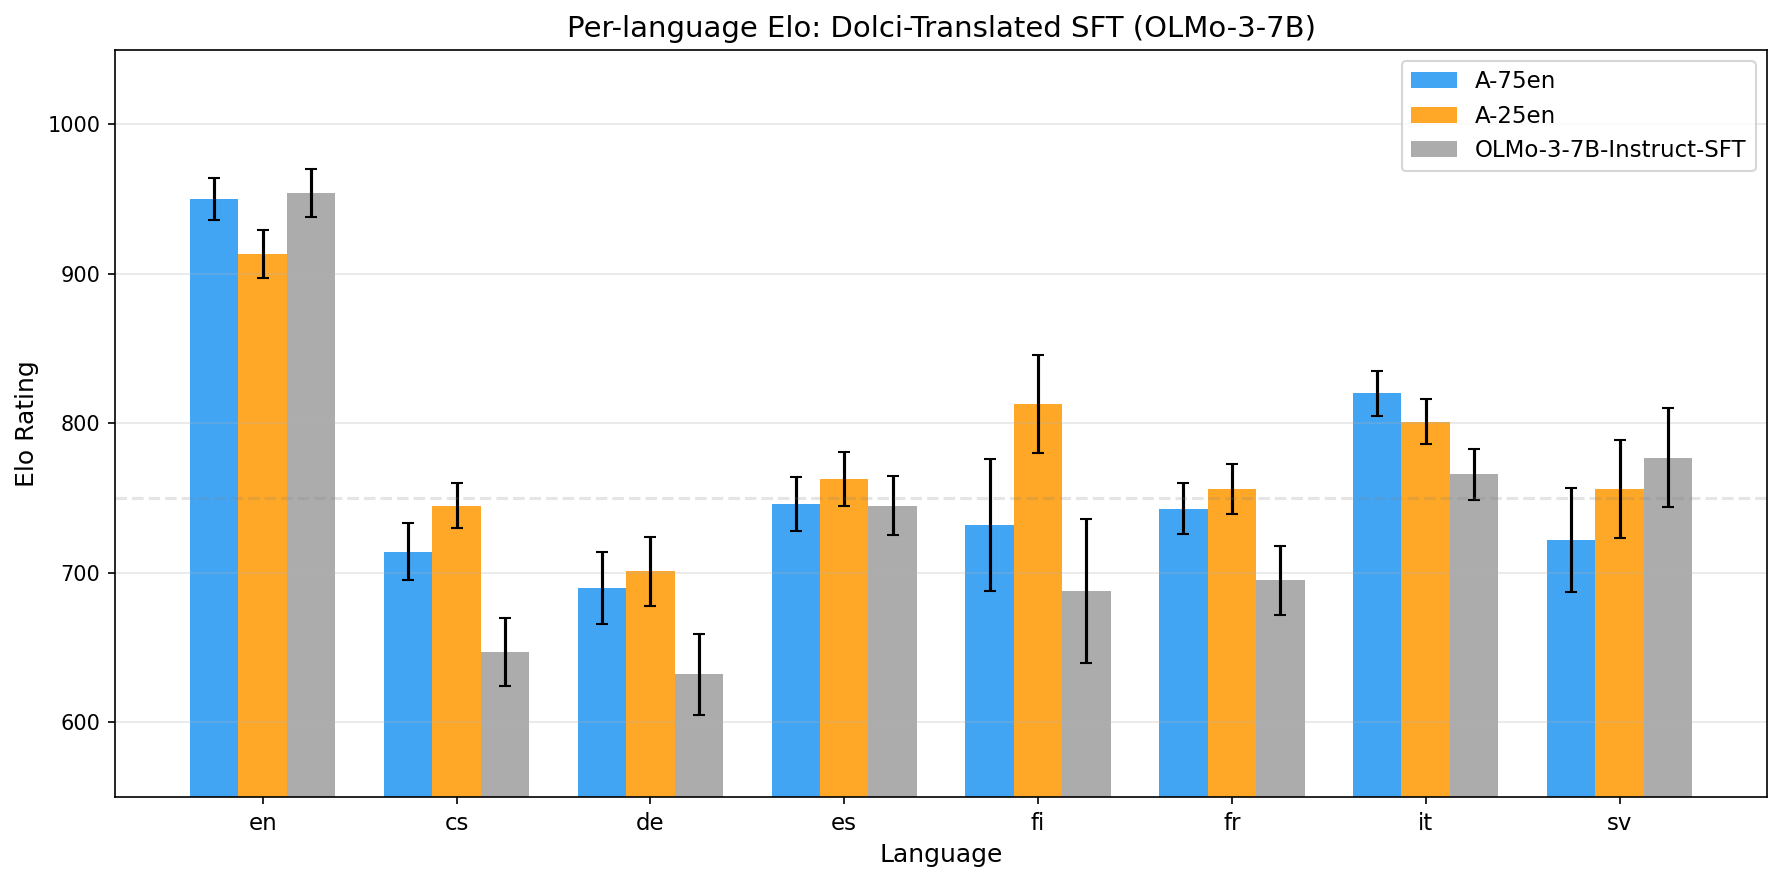
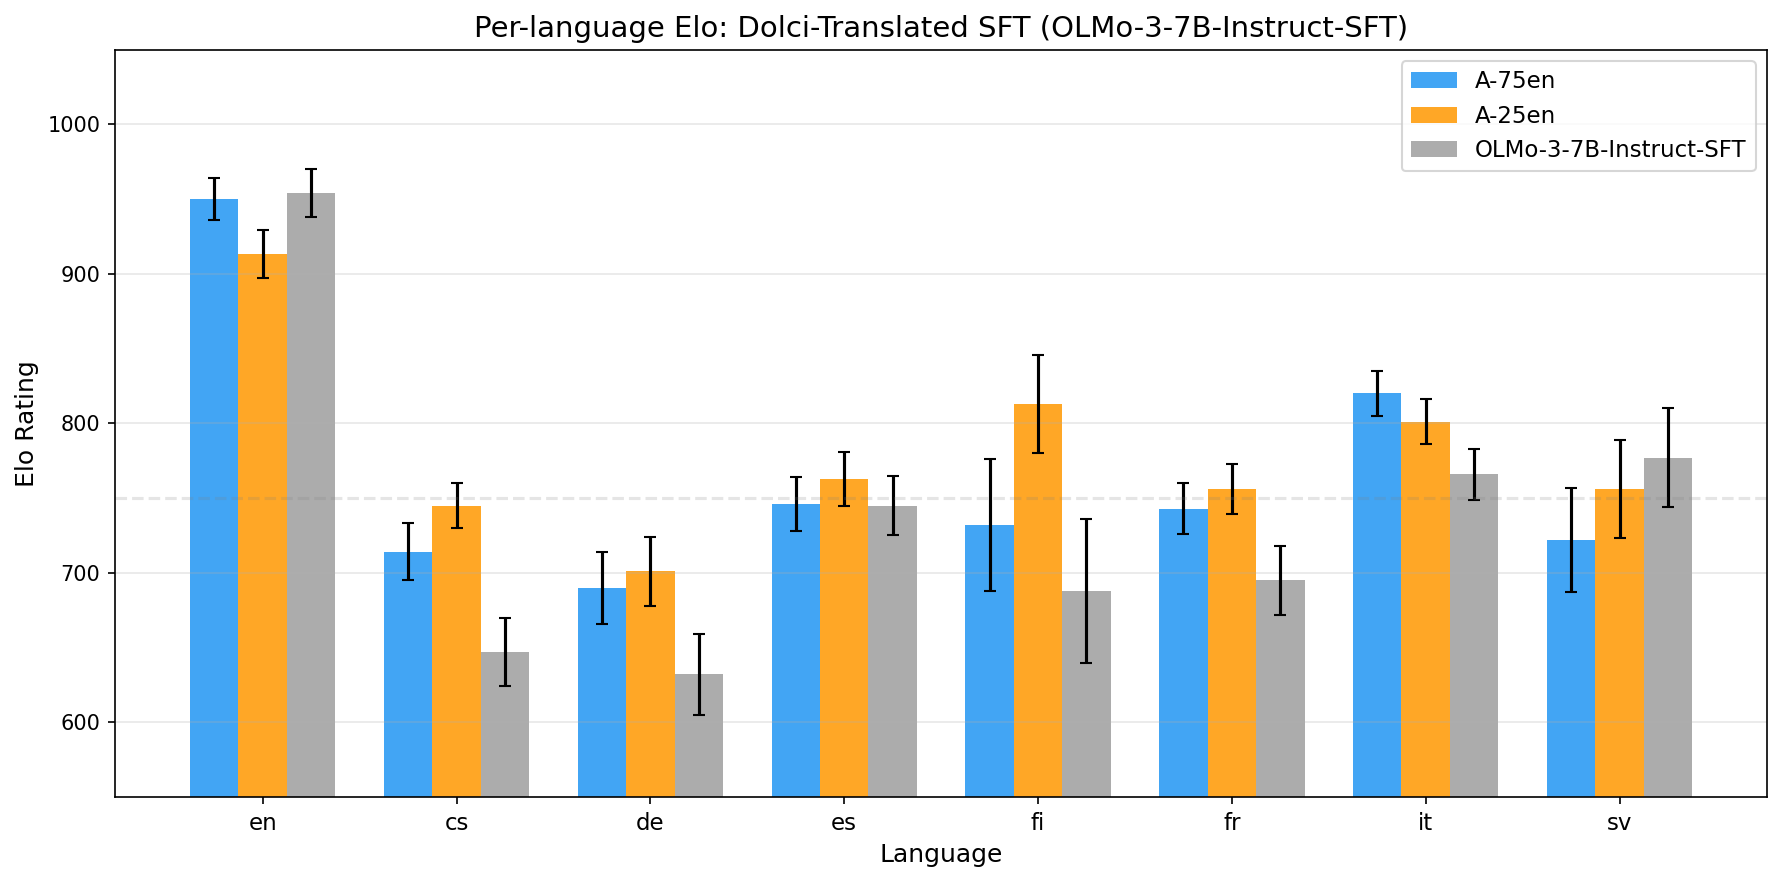
Fix all OLMo-3-7B references to OLMo-3-7B-Instruct-SFT

Changed region(s): [[0.2778, 0.0, 0.7716, 0.0612]]

diff --git a/oellm/experiments/multilingual_eu/results/plots/plot_elo_bars.py b/oellm/experiments/multilingual_eu/results/plots/plot_elo_bars.py
@@ -40,7 +40,7 @@ def plot_dolci_translated():
 
     ax.set_xlabel("Language", fontsize=12)
     ax.set_ylabel("Elo Rating", fontsize=12)
-    ax.set_title("Per-language Elo: Dolci-Translated SFT (OLMo-3-7B)", fontsize=14)
+    ax.set_title("Per-language Elo: Dolci-Translated SFT (OLMo-3-7B-Instruct-SFT)", fontsize=14)
     ax.set_xticks(x + width)
     ax.set_xticklabels(langs, fontsize=11)
     ax.legend(fontsize=11)
@@ -56,7 +56,7 @@ def plot_dolci_translated():
 
 
 def plot_datamix_9b():
-    """Bar plot for datamix-9b vs OLMo-3-7B A-75en vs OLMo baseline."""
+    """Bar plot for datamix-9b vs OLMo-3-7B-Instruct-SFT-Instruct-SFT A-75en vs OLMo baseline."""
     langs = ["en", "cs", "de", "es", "fi", "fr", "it", "sv"]
 
     data = {
@@ -64,7 +64,7 @@ def plot_datamix_9b():
             "elo": [879, 833, 792, 764, None, 790, 780, 820],
             "ci": [16, 15, 19, 20, None, 18, 18, 32],
         },
-        "OLMo-3-7B A-75en": {
+        "OLMo-3-7B-Instruct-SFT A-75en": {
             "elo": [950, 714, 690, 746, 732, 743, 820, 722],
             "ci": [14, 19, 24, 18, 44, 17, 15, 35],
         },
@@ -97,7 +97,7 @@ def plot_datamix_9b():
 
     ax.set_xlabel("Language", fontsize=12)
     ax.set_ylabel("Elo Rating", fontsize=12)
-    ax.set_title("Per-language Elo: datamix-9b vs OLMo-3-7B", fontsize=14)
+    ax.set_title("Per-language Elo: datamix-9b vs OLMo-3-7B-Instruct-SFT", fontsize=14)
     ax.set_xticks(x + width)
     ax.set_xticklabels(langs, fontsize=11)
     ax.legend(fontsize=11)

diff --git a/oellm/experiments/multilingual_eu/results/datamix_9b_sft_results.md b/oellm/experiments/multilingual_eu/results/datamix_9b_sft_results.md
@@ -23,15 +23,15 @@ The OpenEuroLLM 9B alpha model ([datamix-9b-80-20](https://huggingface.co/openeu
 | Model | en | cs | de | es | fi | fr | it | sv |
 |-------|-----|-----|-----|-----|-----|-----|-----|-----|
 | **datamix-9b-sft** | 879±16 | **833±15** | **792±19** | **764±20** | tba | **790±18** | 780±18 | **820±32** |
-| **OLMo-3-7B A-75en** | **950±14** | 714±19 | 690±24 | 746±18 | 732±44 | 743±17 | **820±15** | 722±35 |
+| **OLMo-3-7B-Instruct-SFT A-75en** | **950±14** | 714±19 | 690±24 | 746±18 | 732±44 | 743±17 | **820±15** | 722±35 |
 | **OLMo-3-7B-Instruct-SFT** | 954±16 | 647±23 | 632±27 | 745±20 | 688±48 | 695±23 | 766±17 | 777±33 |
 
 ![Per-language Elo comparison](https://github.com/ferreirafabio/open-instruct/blob/main/oellm/experiments/multilingual_eu/results/plots/datamix_9b_per_language_elo.png?raw=true)
 
 ## Key Findings (preliminary, fi pending)
 
-1. **datamix-9b strongly outperforms OLMo on non-English languages**: Czech +119, German +102, Swedish +98, French +47 over OLMo-3-7B A-75en.
-2. **English is weaker** (879±16 vs OLMo-3-7B A-75en 950±14), likely due to shorter context (2048 vs 32768) and the base model being an early alpha.
+1. **datamix-9b strongly outperforms OLMo on non-English languages**: Czech +119, German +102, Swedish +98, French +47 over OLMo-3-7B-Instruct-SFT A-75en.
+2. **English is weaker** (879±16 vs OLMo-3-7B-Instruct-SFT A-75en 950±14), likely due to shorter context (2048 vs 32768) and the base model being an early alpha.
 3. **Czech is the standout** (833±15), highest non-English Elo across all models. The 80/20 multilingual pretraining datamix gives a strong multilingual foundation.
 4. **Swedish transfers well** (820±32) despite the base model's 80/20 datamix focusing on higher-resource languages.
 
